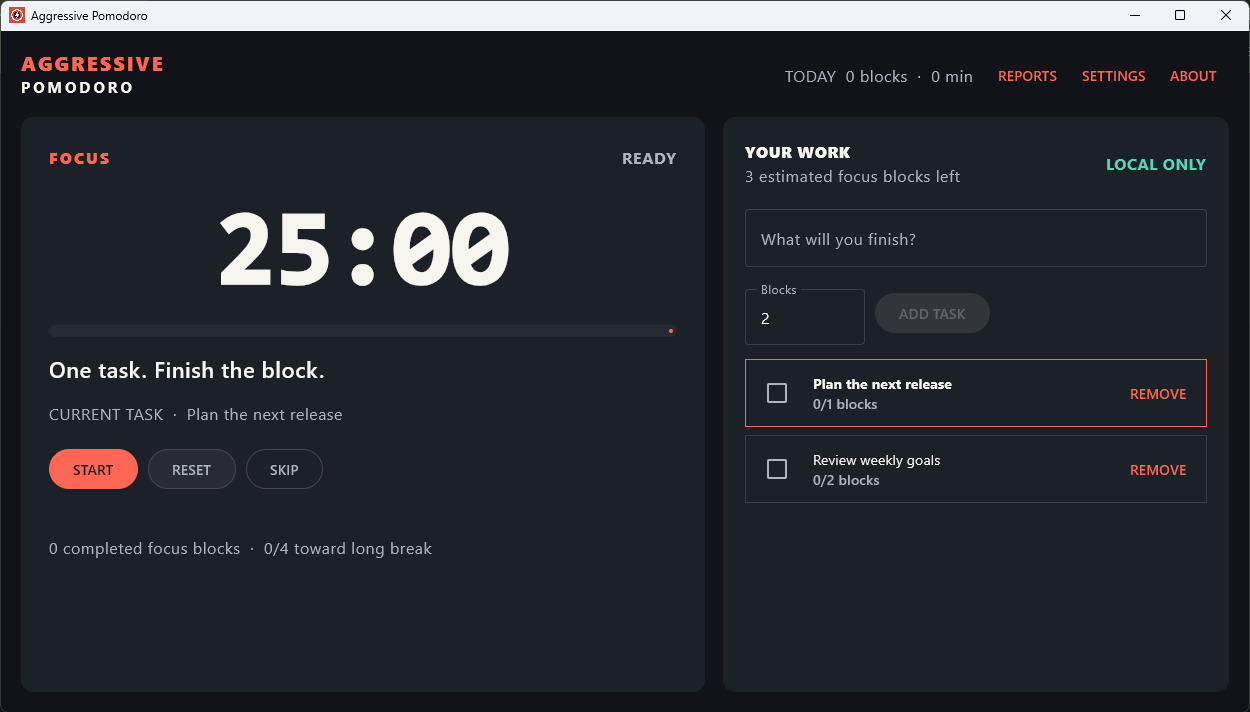
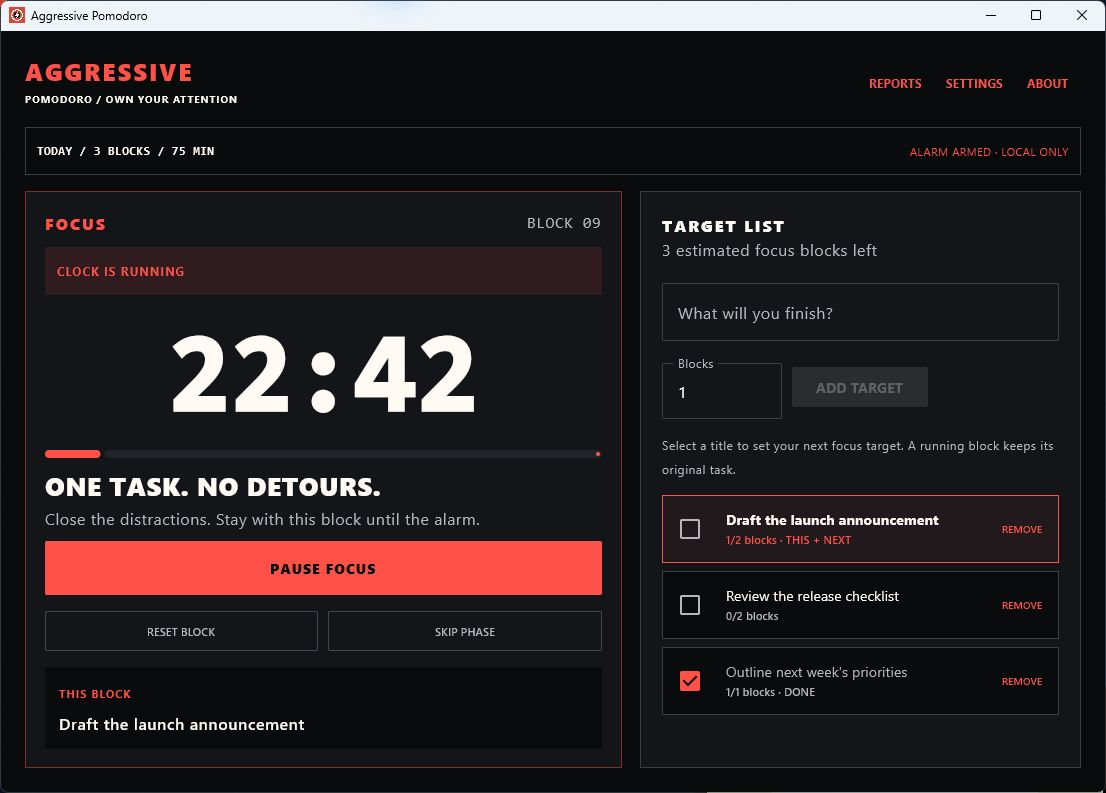
docs: refresh 0.2.0 screenshots and record verified release

diff --git a/openspec/changes/build-aggressive-pomodoro-desktop/tasks.md b/openspec/changes/build-aggressive-pomodoro-desktop/tasks.md
@@ -31,7 +31,7 @@
 ## 5. Windows packaging and release documentation
 
 - [x] 5.1 Establish Git history and the owner-selected public release destination for this workspace; verify the intended remote, version tag policy, and release permissions before configuring publication.
-- [ ] 5.2 Add app icon, application/version metadata, and About display; verify the same version appears in the running app and package metadata.
+- [x] 5.2 Add app icon, application/version metadata, and About display; verify the same version appears in the running app and package metadata.
 - [x] 5.3 Build the executable JAR with the pinned Kotlin Toolchain and package it into a runtime-bundled Windows app image and MSI using pinned JDK/jpackage and WiX tooling; verify the app image launches without a separate Java installation and the MSI installs and launches on a clean Windows environment.
 - [x] 5.4 Add Windows CI for build, tests, packaging smoke checks, checksum generation, and tag-bound release assets, with publication gated on successful validation; verify a failed packaging job cannot publish a release and the checksum matches the exact MSI.
 - [x] 5.5 Add `docs/RELEASING.md`, `CHANGELOG.md`, and README download/install guidance covering version/tag rules, checksums, unsigned installer warning, rollback, source-build support, and Windows-only package support; verify commands, links, and filenames against produced artifacts.
@@ -64,8 +64,10 @@ Section 8 verification (2026-09-28): complete Kotlin build and all 62 tests pass
 ## 9. Version 0.2.0 publication
 
 - [x] 9.1 Prepare versioned release notes and snapshot rollback guidance, incorporate remote changes, and validate release metadata and OpenSpec.
-- [ ] 9.2 Commit and push the release update to main; verify Windows CI and the release workflow build/test/package/install gates succeed for that exact commit.
-- [ ] 9.3 Read back the published v0.2.0 tag and assets, independently download and verify MSI checksum and license, and record release evidence with outstanding manual checks.
+- [x] 9.2 Commit and push the release update to main; verify Windows CI and the release workflow build/test/package/install gates succeed for that exact commit.
+- [x] 9.3 Read back the published v0.2.0 tag and assets, independently download and verify MSI checksum and license, and record release evidence with outstanding manual checks.
+
[1 lines of base64/hex data omitted]
 
 ## 10. In-app updates and About repository
 
@@ -73,7 +75,10 @@ Section 8 verification (2026-09-28): complete Kotlin build and all 62 tests pass
 - [x] 10.2 Add About repository access and an update dialog covering current/available/downloading/ready/error states, explicit install confirmation, and completion-alert priority.
 - [x] 10.3 Integrate verified interactive installation with save/backup/exit and recoverable failures; preserve the first released MSI UpgradeCode and cover controller failure paths with tests.
 - [x] 10.4 Update privacy, architecture, release notes, and manual Windows upgrade checks; run full build/tests and strict OpenSpec validation before publication.
+- [x] 10.5 Refresh README screenshots using the real v0.2.0 interface and an isolated sample profile, including About's repository link and the manual update screen; inspect framing and readability before pushing.
 
 Section 10 local verification: build and executable JAR packaging passed; all 83 tests passed (32 shared, 51 desktop) with no test discovery omissions. Strict OpenSpec validation and workflow actionlint passed. The original released MSI's hash and UpgradeCode were independently verified. Interactive updater/UAC and the manual audio/UI checks remain pending.
 
 The packaged updater also passed a live latest-release check, full 92,951,448-byte v0.1.0 download, and checksum re-verification without launching an installer.
+
+Post-publication screenshot smoke confirmed the real UI can start a demo focus block, open Settings and About, show version 0.2.0 and the repository link, and complete a manual check with the current-version result. Four refreshed README images document these screens. Together with the release MSI metadata checks, the observed About version completes task 5.2. Remaining native acceptance scenarios stay open.

diff --git a/docs/TESTING.md b/docs/TESTING.md
@@ -83,4 +83,18 @@ Release CI separately exercises clean installation and the immutable v0.1.0 MSI 
 - Strict OpenSpec validation and actionlint for both Windows workflows passed.
 - A live probe using the packaged updater checked the real latest GitHub release, reported no newer version for 0.2.0, downloaded the 92,951,448-byte v0.1.0 MSI, and passed both initial SHA-256 verification and pre-install re-verification. No installer was executed on the development machine.
 - Published v0.1.0 MSI was independently downloaded and hash-verified; its UpgradeCode matches the pinned code in the new packager. A metadata-only packaging probe validated the new version/upgrade identity; that probe is not a release artifact and was not installed.
-- Manual interactive updater/UAC, browser, sound, keyboard, and sleep scenarios above remain pending.
+- Manual update download/install/UAC, browser launch, sound, keyboard, and sleep scenarios above remain pending.
+
+## Recorded v0.2.0 release verification — 2026-09-28
+
+- [Windows CI](https://github.com/BharathKmalviya/Aggressive-Pomodoro/actions/runs/36462170882) and [Windows release](https://github.com/BharathKmalviya/Aggressive-Pomodoro/actions/runs/36462170953) passed for `e93020082591517574ac35efbd1f48b9f2c00405`, including the automated build/tests, clean MSI installation/launch, and upgrade from the checksum-pinned public v0.1.0 MSI.
+- The upgrade gate verified that the old product was removed and the new app saved snapshot format 3 with the same paused time, captured task, task credit, and daily history. Its close helper was also exercised locally against a hidden packaged app in an isolated profile and verified a normal exit with a saved snapshot.
+- All three public release assets were independently downloaded and checked against their GitHub digests. MSI checksum and pinned MIT License verification passed; the immutable tag points to the exact validated commit. Hashes are recorded in [RELEASING.md](RELEASING.md).
+- A post-publication probe using the packaged updater correctly reported 0.2.0 as current and detected the real 0.2.0 release for a simulated older installed version. No local installer was launched.
+- These automated results do not close the outstanding manual Windows acceptance matrix.
+
+## Recorded screenshot and update-check smoke — 2026-09-28
+
+The current executable JAR was launched on Windows with an isolated demo profile containing sample tasks and history. The app's start action produced a running countdown and the captured-task label. Settings, About, and the manual update check were opened through the actual UI. About showed version 0.2.0 and the full GitHub repository link; the live check against the published release reached "YOU'RE UP TO DATE" with installed version 0.2.0.
+
+The four [README screenshots](../README.md#screenshots) were refreshed from those real screens. Modal captures were cropped to their actual dialog pixels with a surrounding margin, and all exported images were inspected for readable text and framing. This records a limited visual and update-check smoke pass; it does not verify alarm loudness, browser launch, interactive download/install/UAC, keyboard accessibility, or sleep/recovery acceptance.

diff --git a/docs/RELEASING.md b/docs/RELEASING.md
@@ -46,3 +46,15 @@ The same release includes the subsequently requested manual updater and GitHub A
 The published v0.1.0 MSI has UpgradeCode `{8B4BB341-127A-3A18-945B-B92F5C0CD1FD}` and ProductCode `{50B90F77-B8D1-3BDD-AC8F-48DF142D69B8}`. Packaging now verifies the UpgradeCode, product name, and version. The release workflow additionally installs that checksum-pinned baseline, upgrades it to the new MSI, verifies old-product removal, and checks that a paused session's task/history snapshot survives in an isolated profile. This augments the clean-install launch gate.
 
 The first v0.2.0 release attempt passed build, tests, packaging, and clean installation, but its upgrade harness could not close the window through `Process.CloseMainWindow`. Publication was blocked. The jpackage launcher can place the UI in a child process. The harness now waits for the titled window owned by the launch or its descendants with the same executable path (including hidden windows), posts the normal Windows close request, and requires a successful process exit before validating saved state; forced termination is cleanup only and cannot pass the gate.
+
+## v0.2.0 published verification
+
+On 2026-09-28, [Windows CI](https://github.com/BharathKmalviya/Aggressive-Pomodoro/actions/runs/36462170882) and the [release workflow](https://github.com/BharathKmalviya/Aggressive-Pomodoro/actions/runs/36462170953) passed for commit `e93020082591517574ac35efbd1f48b9f2c00405`. The workflow verified clean MSI installation and launch, then upgraded the published v0.1.0 installation while preserving the paused timer, captured task, earned task blocks, and daily history. Old-product removal and migrated snapshot format 3 were checked before publication.
+
+The [immutable v0.2.0 release](https://github.com/BharathKmalviya/Aggressive-Pomodoro/releases/tag/v0.2.0) was published at `2026-09-28T18:05:37Z`. Fresh API readback confirmed its tag points to that exact validated commit. An independent download of all three public assets verified their sizes and GitHub SHA-256 digests, the MSI against `SHA256SUMS.txt`, and the MIT License against its pinned hash:
+
[3 lines of base64/hex data omitted]
+
+The packaged updater also read the newly published release: version 0.2.0 correctly reported no newer update, and a simulated installed version 0.1.0 correctly detected the actual 0.2.0 MSI. No installer was executed on the development machine. The manual Windows acceptance gaps in [TESTING.md](TESTING.md), including audio, keyboard, sleep, and interactive UAC, remain open.

diff --git a/README.md b/README.md
@@ -6,11 +6,23 @@ Aggressive Pomodoro is a Windows desktop focus timer built with Kotlin and Compo
 
 ## Screenshots
 
-The Windows app in v0.1.0, shown with sample tasks in a local test profile. These screenshots predate the current aggressive interface refresh.
+The Windows app in v0.2.0, captured from the running app with sample tasks and history in an isolated demo profile. Dialog screenshots are cropped for readability.
 
-![Focus timer beside the local task list](docs/images/timer-and-tasks.png)
+Live focus countdown, direct prompts, and the task earning the current block:
 
-![Settings for durations, automatic transitions, and sounds](docs/images/settings.png)
+![Aggressive focus timer beside the local task list](docs/images/timer-and-tasks.png)
+
+Duration rules, persistent reminders, independent sound controls, and alarm preview:
+
+![Settings with relentless completion reminders and Test Alarm](docs/images/settings.png)
+
+About includes the installed version and the GitHub repository link:
+
+![About with version 0.2.0, the GitHub repository, and Check for Updates](docs/images/about.png)
+
+A manual check against GitHub confirms the installed release is current:
+
+![Update check showing version 0.2.0 is up to date](docs/images/update-check.png)
 
 ## Features
 
